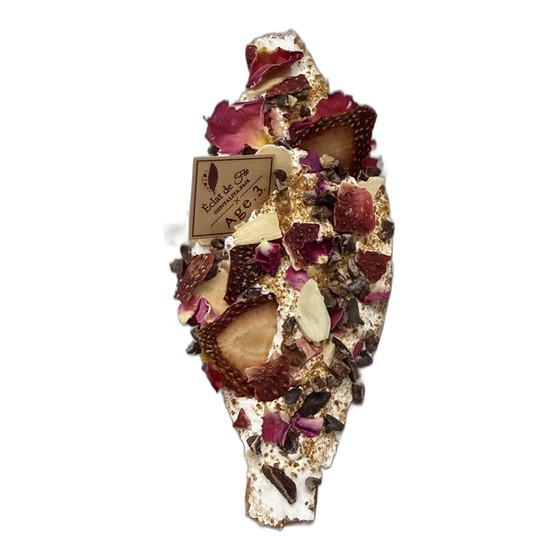
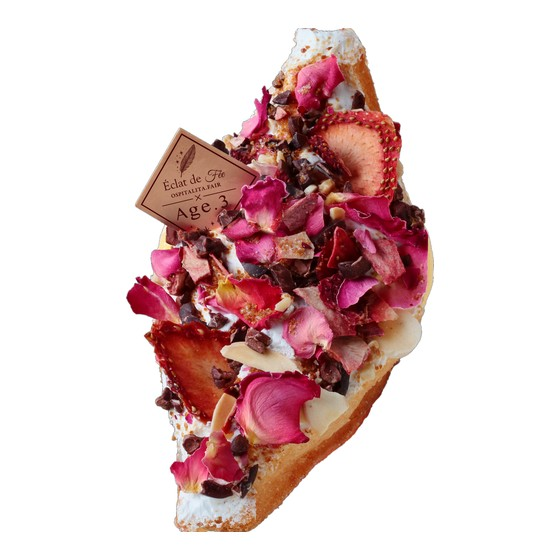
feat: エクラドフェ アブラカタブラの完成写真を差し替え、12/1発売を表示
Claude-Session: https://claude.ai/code/session_01Wp3vB6FRfwS6WS9ETNgW7z

diff --git a/age3-recipe-data.js b/age3-recipe-data.js
@@ -30,7 +30,7 @@
    ========================================================================== */
 
 var RECIPE_META = {
-  assetVersion: '20261015b',
+  assetVersion: '20261031a',
   brand: 'Age.3',
   title: 'Age.3 レシピ',
   sub: '揚げサンド スタンダードレシピ',
@@ -113,7 +113,8 @@ var RECIPE_NOTICE = {
       when: '12月〜 発売', tone: 'start',
       title: '12月の新商品', scope: null,
       items: [
-        { name: 'ミックスベリーオペラ', state: '揚げサンド', detail: null, recipe: 'mixberry-opera' }
+        { name: 'ミックスベリーオペラ', state: '揚げサンド', detail: null, recipe: 'mixberry-opera' },
+        { name: 'エクラドフェ アブラカタブラ', state: '揚げサンド', detail: '12月1日発売', recipe: 'eclat-abracadabra' }
       ]
     }
   ]
@@ -259,6 +260,7 @@ var RECIPES = [
   name: 'エクラドフェ アブラカタブラ', en: 'Éclat de Fée Abracadabra',
   serve: 'Sweets 提供 / SERVE', category: '揚げサンド', limited: false,
   top: true,
+  status: { tone: 'start', label: '12/1〜', detail: '12月1日発売' },
   yield: '1個分', kind: 'sweets',
   ing: [
     ['揚げパン', 'Fried bread', '1/2', '個'],
